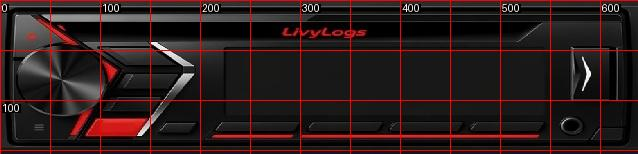
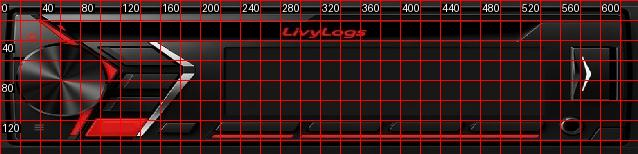
Increase grid precision to 20px increments with labels every 40px

Changed region(s): [[0.0, 0.0, 1.0, 1.0]]

diff --git a/generate_grid.py b/generate_grid.py
@@ -1,0 +1,46 @@
+from PIL import Image, ImageDraw, ImageFont
+import os
+
+def create_grid(input_path, output_path, step=20):
+    if not os.path.exists(input_path):
+        print(f"Error: {input_path} not found.")
+        return
+
+    img = Image.open(input_path).convert("RGB")
+    draw = ImageDraw.Draw(img)
+    width, height = img.size
+
+    # Use a basic font
+    try:
+        font = ImageFont.load_default()
+    except:
+        font = None
+
+    color = (255, 0, 0) # Red lines for visibility
+    text_color = (255, 255, 255) # White text
+    bg_color = (0, 0, 0) # Black text background
+
+    # Draw vertical lines
+    for x in range(0, width, step):
+        draw.line([(x, 0), (x, height)], fill=color, width=1)
+        # Label every 40 pixels for better precision, lines every 20.
+        if x % 40 == 0:
+            text = str(x)
+            bbox = draw.textbbox((x + 2, 2), text, font=font)
+            draw.rectangle(bbox, fill=bg_color)
+            draw.text((x + 2, 2), text, fill=text_color, font=font)
+
+    # Draw horizontal lines
+    for y in range(0, height, step):
+        draw.line([(0, y), (width, y)], fill=color, width=1)
+        if y % 40 == 0:
+            text = str(y)
+            bbox = draw.textbbox((2, y + 2), text, font=font)
+            draw.rectangle(bbox, fill=bg_color)
+            draw.text((2, y + 2), text, fill=text_color, font=font)
+
+    img.save(output_path)
+    print(f"Grid image saved to {output_path} ({width}x{height}) with step {step}")
+
+if __name__ == "__main__":
+    create_grid("realradioBASE.jpg", "radiogrid.jpg", step=20)